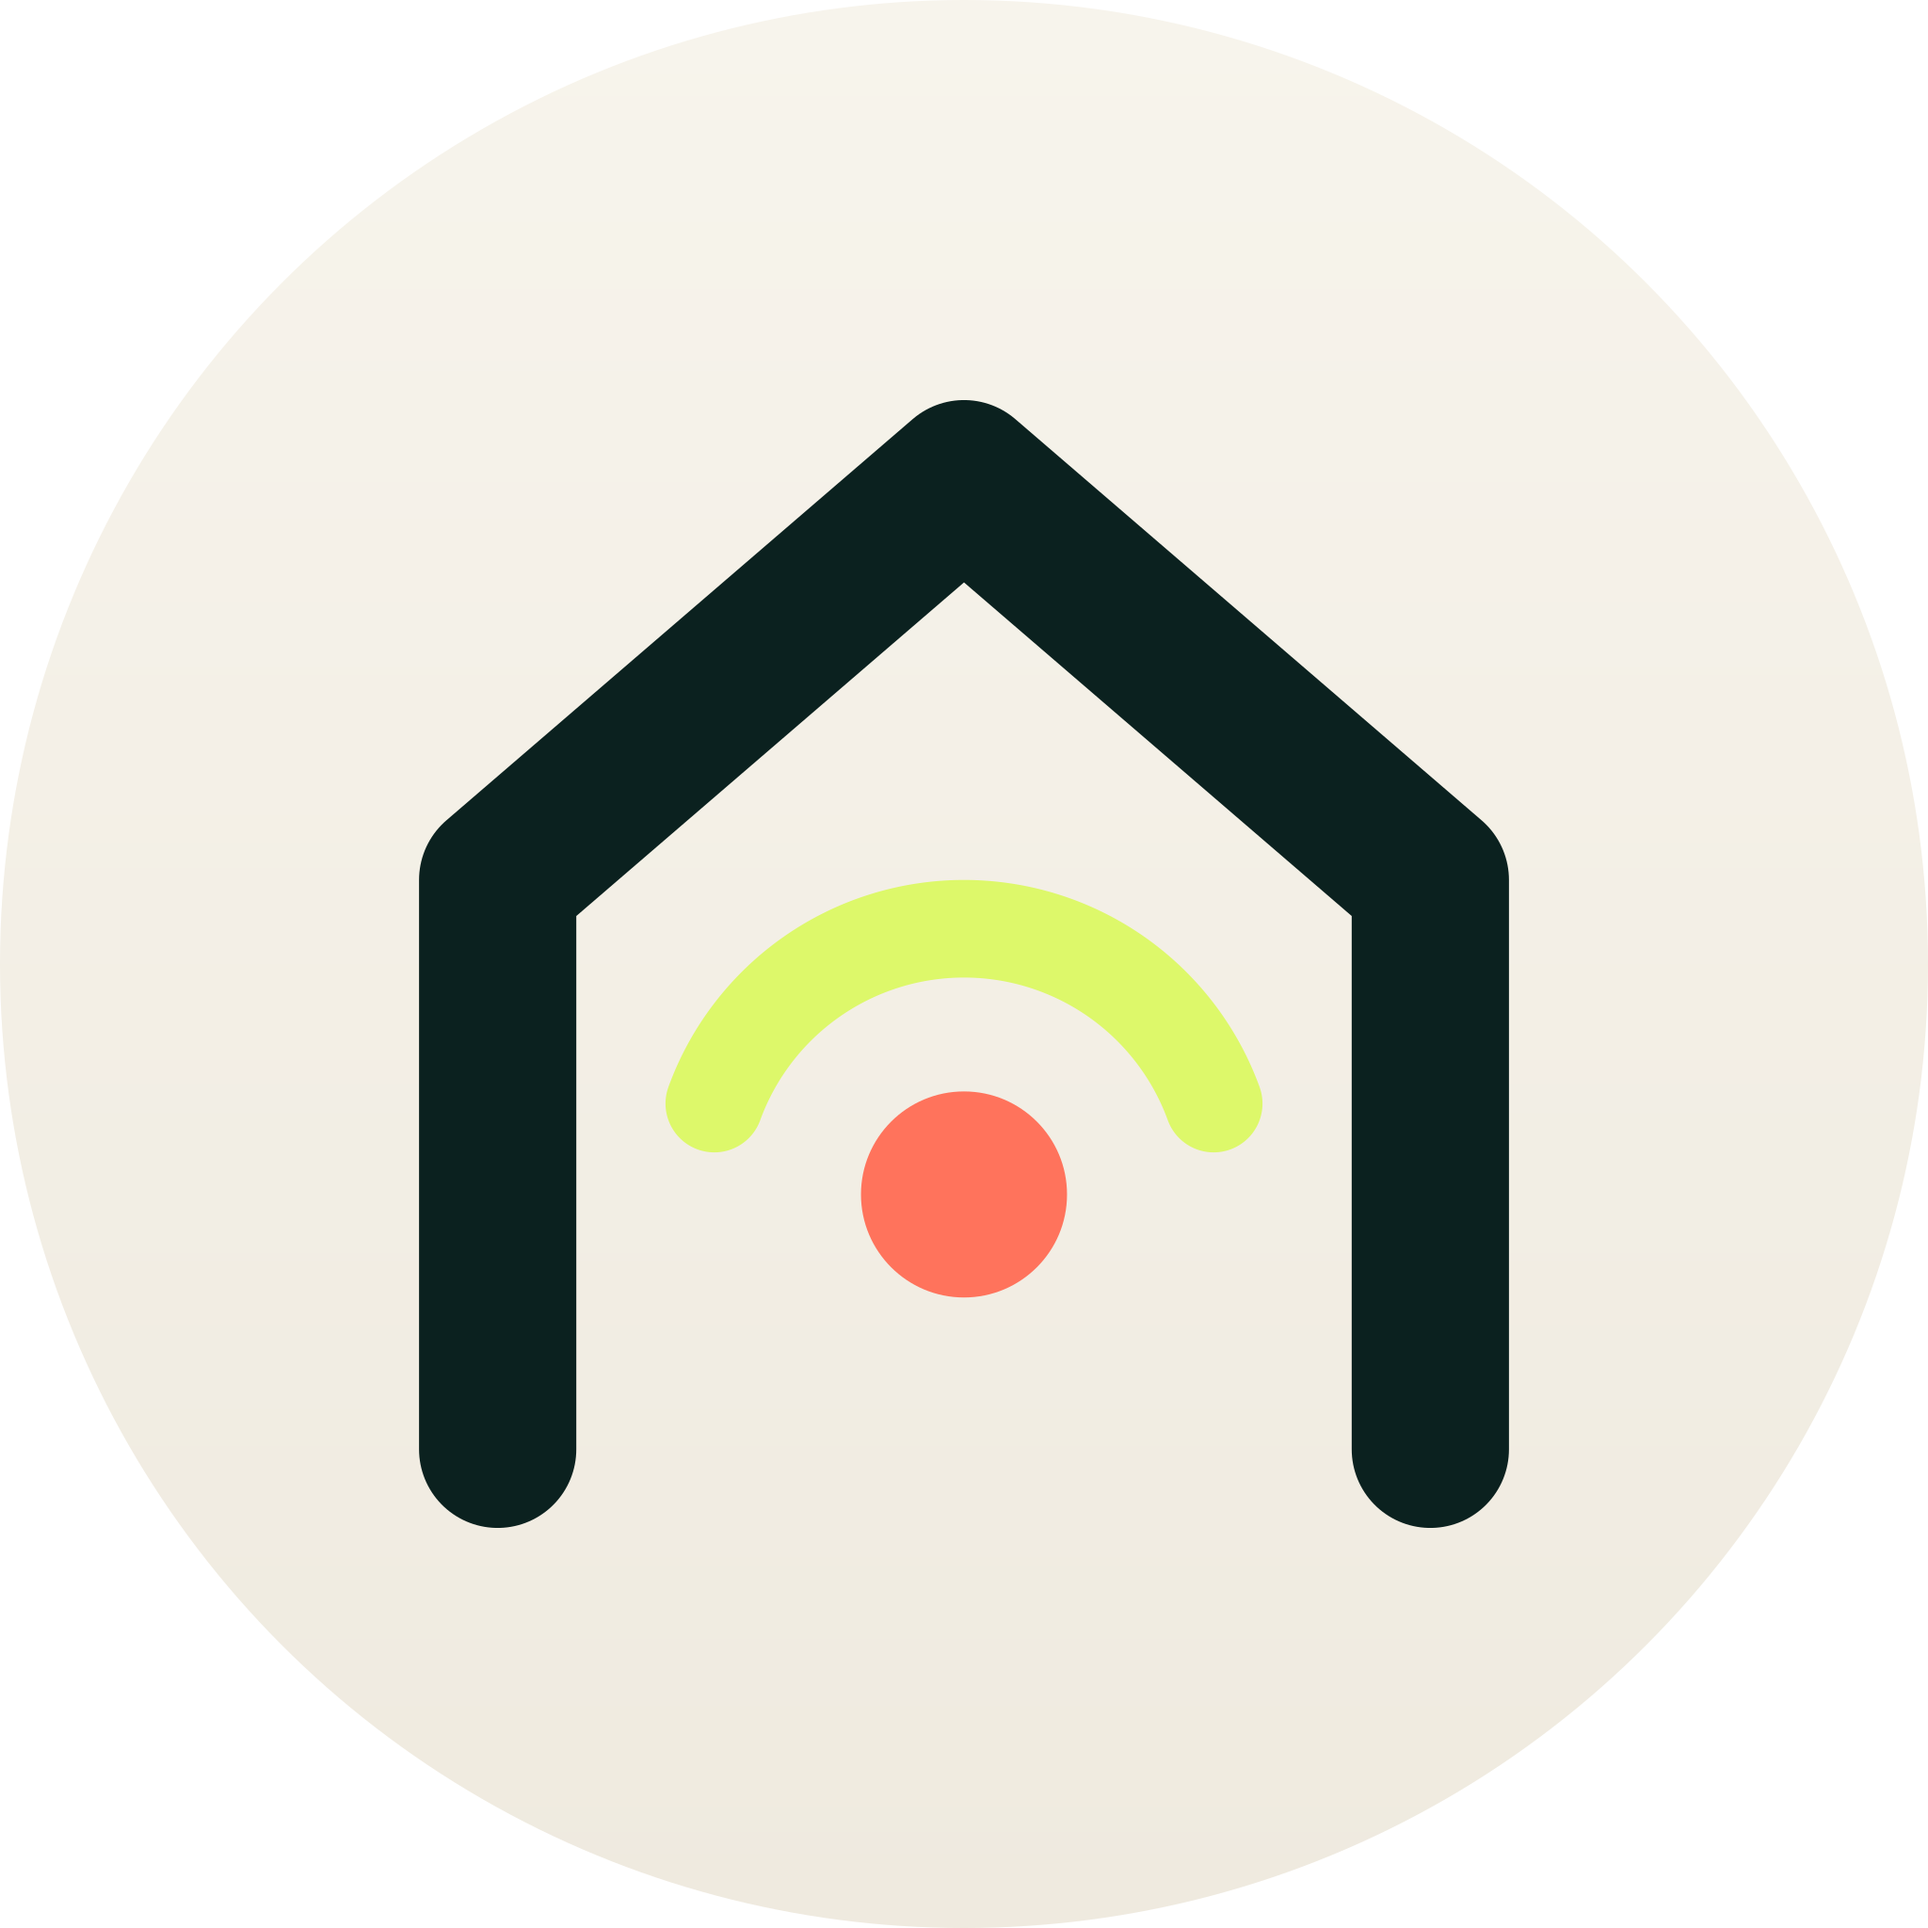
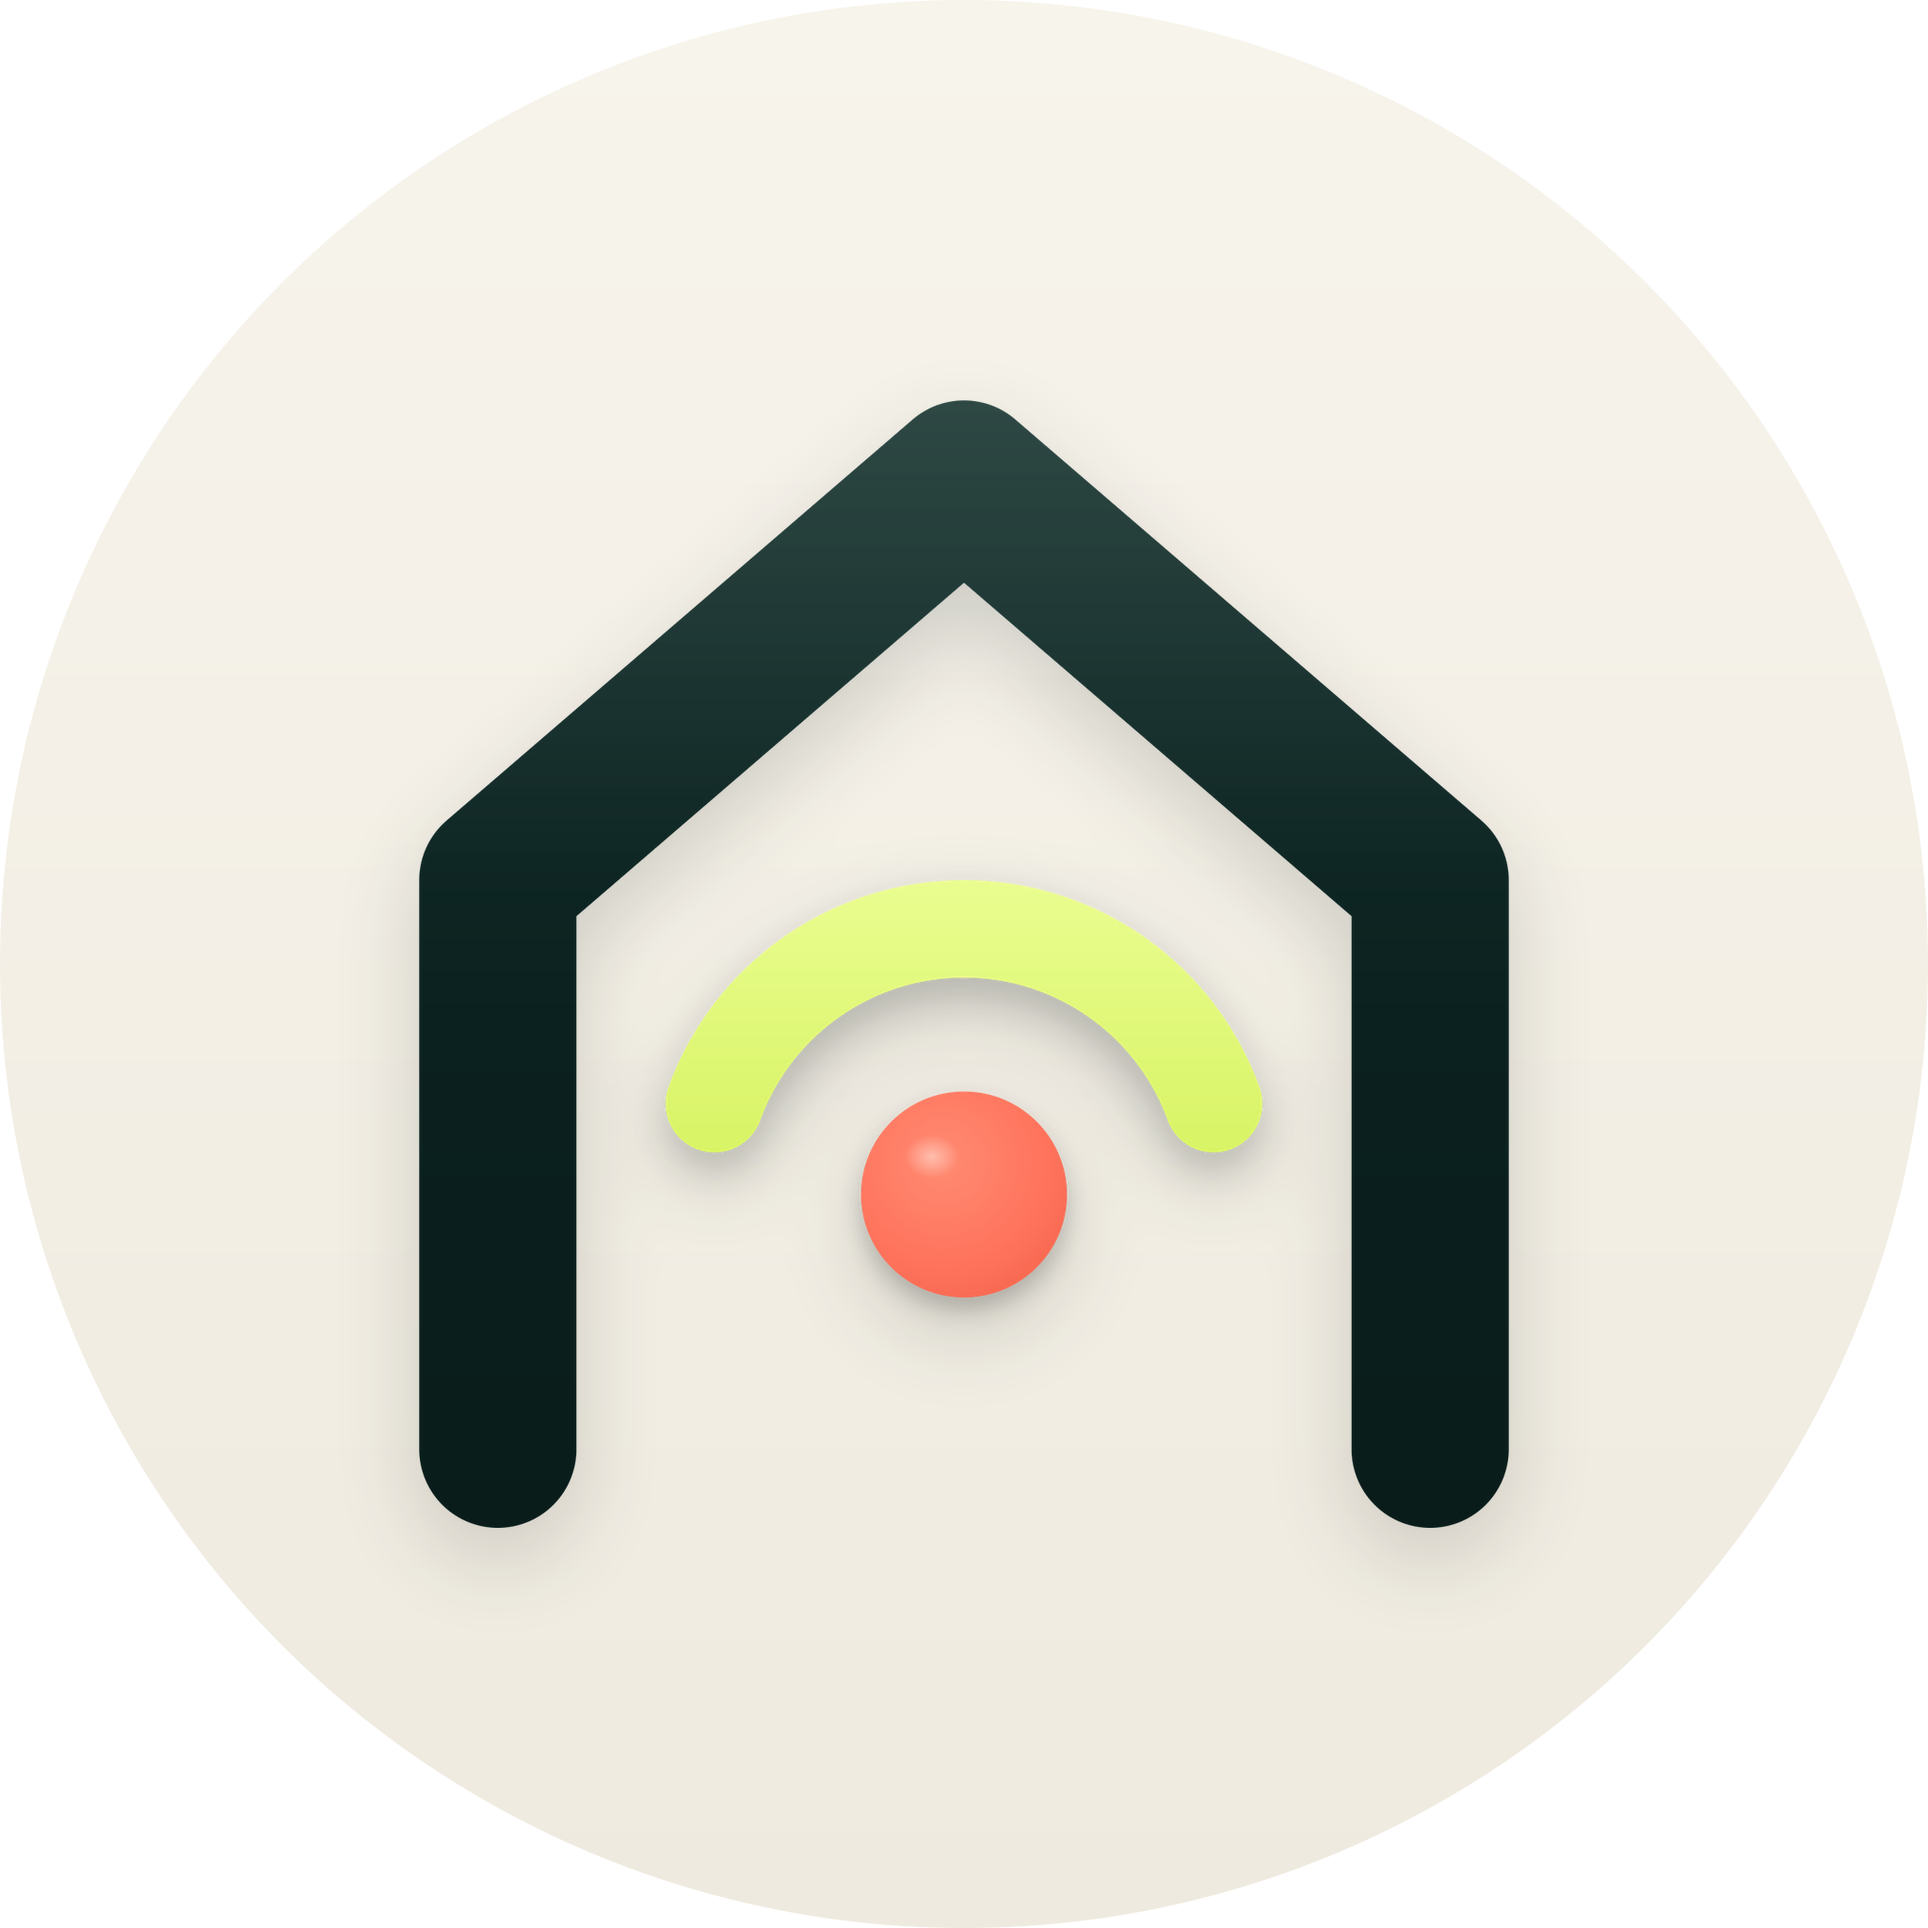
Elevate brand mark with premium material rendering

diff --git a/tools/brand/generate_mark.py b/tools/brand/generate_mark.py
@@ -1,14 +1,19 @@
 #!/usr/bin/env python3
 """Generate the AbitareSmart Signal mark and every web export from scratch.
 
-The mark is pure vector geometry built on the Signal palette:
+The geometry is pure vector, built on the Signal palette:
   - Ink #0B211F      architectural portal (open house silhouette)
   - Lime #DDF86A     precision signal channel (single arc, not generic Wi-Fi)
   - Coral #FF735C    source node (the intelligent hub)
   - Canvas #F7F4EC / Surface #EFEADF  circular presentation field
 
+The PNG exports add restrained material lighting: a satin vertical gradient
+on the ink portal, a top-light sheen, an enamel node with a specular
+highlight, and soft contact shadows. Everything is composited at 2048 px
+and supersampled down, so edges stay clean at every size.
+
 Outputs (all paths relative to repo root):
-  assets/img/brand/abitaresmart-mark.svg      512 master, transparent
+  assets/img/brand/abitaresmart-mark.svg      512 master geometry, transparent
   assets/img/abitaresmart-mark.png            1400x1400 transparent (structured data)
   assets/img/abitaresmart-mark-web.png        512x512 transparent (navigation)
   assets/img/abitaresmart-mark-disc.svg       circular presentation (SVG favicon)
@@ -20,6 +25,7 @@ import math
 from pathlib import Path
 
 import cairosvg
+from PIL import Image, ImageFilter
 
 ROOT = Path(__file__).resolve().parents[2]
 IMG = ROOT / "assets" / "img"
@@ -29,6 +35,8 @@ LIME = "#DDF86A"
 CORAL = "#FF735C"
 CANVAS = "#F7F4EC"
 SURFACE = "#EFEADF"
+
+SS = 2048  # supersampling canvas
 
 # --- geometry (512 viewBox) -------------------------------------------------
 # Open-portal pentagon: two walls and a gabled roof drawn as one continuous
@@ -44,6 +52,8 @@ ARC_R = 98
 ARC_W = 36
 ARC_DEG = 20  # arc runs from 180-ARC_DEG to ARC_DEG degrees, over the top
 
+HOUSE_D = f"M {WALL_L} {BASE_Y} V {EAVE_Y} L 256 {APEX_Y} L {WALL_R} {EAVE_Y} V {BASE_Y}"
+
 
 def arc_path() -> str:
     a = math.radians(ARC_DEG)
@@ -53,20 +63,24 @@ def arc_path() -> str:
     return f"M {x1:.2f} {y:.2f} A {ARC_R} {ARC_R} 0 0 1 {x2:.2f} {y:.2f}"
 
 
-def mark_group() -> str:
-    return f"""  <path d="M {WALL_L} {BASE_Y} V {EAVE_Y} L 256 {APEX_Y} L {WALL_R} {EAVE_Y} V {BASE_Y}"
-        fill="none" stroke="{INK}" stroke-width="{STROKE}"
+# --- flat vector masters ----------------------------------------------------
+
+def flat_group(house=INK, lime=LIME, coral=CORAL) -> str:
+    return f"""  <path d="{HOUSE_D}"
+        fill="none" stroke="{house}" stroke-width="{STROKE}"
         stroke-linecap="round" stroke-linejoin="round"/>
-  <path d="{arc_path()}" fill="none" stroke="{LIME}"
+  <path d="{arc_path()}" fill="none" stroke="{lime}"
         stroke-width="{ARC_W}" stroke-linecap="round"/>
-  <circle cx="{NODE[0]}" cy="{NODE[1]}" r="{NODE_R}" fill="{CORAL}"/>"""
+  <circle cx="{NODE[0]}" cy="{NODE[1]}" r="{NODE_R}" fill="{coral}"/>"""
+
+
+def wrap(body: str) -> str:
+    return (f'<svg xmlns="http://www.w3.org/2000/svg" viewBox="0 0 512 512">\n'
+            f'{body}\n</svg>\n')
 
 
 def mark_svg() -> str:
-    return f"""<svg xmlns="http://www.w3.org/2000/svg" viewBox="0 0 512 512">
-{mark_group()}
-</svg>
-"""
+    return wrap(flat_group())
 
 
 def disc_svg() -> str:
@@ -74,8 +88,7 @@ def disc_svg() -> str:
     scale = 0.72
     tx = 256 - scale * 256
     ty = 256 - scale * 263
-    return f"""<svg xmlns="http://www.w3.org/2000/svg" viewBox="0 0 512 512">
-  <defs>
+    return wrap(f"""  <defs>
     <linearGradient id="field" x1="0" y1="0" x2="0" y2="1">
       <stop offset="0" stop-color="{CANVAS}"/>
       <stop offset="1" stop-color="{SURFACE}"/>
@@ -83,31 +96,139 @@ def disc_svg() -> str:
   </defs>
   <circle cx="256" cy="256" r="256" fill="url(#field)"/>
   <g transform="translate({tx:.2f} {ty:.2f}) scale({scale})">
-{mark_group()}
-  </g>
-</svg>
-"""
+{flat_group()}
+  </g>""")
 
 
-def render(svg: str, out: Path, size: int) -> None:
-    cairosvg.svg2png(bytestring=svg.encode(), write_to=str(out),
-                     output_width=size, output_height=size)
+# --- material PNG pipeline ---------------------------------------------------
+
+def render(body: str, size: int = SS) -> Image.Image:
+    png = cairosvg.svg2png(bytestring=wrap(body).encode(),
+                           output_width=size, output_height=size)
+    import io
+    return Image.open(io.BytesIO(png)).convert("RGBA")
+
+
+def cast_shadow(layer: Image.Image, blur: float, dy: int,
+                opacity: float, color=(6, 16, 15)) -> Image.Image:
+    """Soft shadow built from a layer's silhouette."""
+    alpha = layer.split()[3]
+    moved = Image.new("L", layer.size, 0)
+    moved.paste(alpha, (0, dy))
+    moved = moved.filter(ImageFilter.GaussianBlur(blur))
+    moved = moved.point(lambda p: int(p * opacity))
+    shadow = Image.new("RGBA", layer.size, color + (255,))
+    shadow.putalpha(moved)
+    return shadow
+
+
+def house_layers() -> str:
+    """Satin ink portal: vertical tonal gradient plus a top-light sheen."""
+    return f"""  <defs>
+    <linearGradient id="satin" gradientUnits="userSpaceOnUse"
+        x1="0" y1="{APEX_Y - 30}" x2="0" y2="{BASE_Y + 30}">
+      <stop offset="0" stop-color="#173430"/>
+      <stop offset="0.55" stop-color="#0B211F"/>
+      <stop offset="1" stop-color="#091C1A"/>
+    </linearGradient>
+    <linearGradient id="sheen" gradientUnits="userSpaceOnUse"
+        x1="0" y1="{APEX_Y - 30}" x2="0" y2="{EAVE_Y}">
+      <stop offset="0" stop-color="#FFFDF8" stop-opacity="0.10"/>
+      <stop offset="1" stop-color="#FFFDF8" stop-opacity="0"/>
+    </linearGradient>
+  </defs>
+  <path d="{HOUSE_D}" fill="none" stroke="url(#satin)" stroke-width="{STROKE}"
+        stroke-linecap="round" stroke-linejoin="round"/>
+  <path d="{HOUSE_D}" fill="none" stroke="url(#sheen)" stroke-width="{STROKE}"
+        stroke-linecap="round" stroke-linejoin="round"/>"""
+
+
+def arc_layer() -> str:
+    top = NODE[1] - ARC_R - ARC_W / 2
+    return f"""  <defs>
+    <linearGradient id="limeg" gradientUnits="userSpaceOnUse"
+        x1="0" y1="{top}" x2="0" y2="{NODE[1]}">
+      <stop offset="0" stop-color="#E9FD90"/>
+      <stop offset="1" stop-color="#D6F25E"/>
+    </linearGradient>
+  </defs>
+  <path d="{arc_path()}" fill="none" stroke="url(#limeg)"
+        stroke-width="{ARC_W}" stroke-linecap="round"/>"""
+
+
+def node_layer() -> str:
+    """Enamel hub: warm radial body with a small specular highlight."""
+    return f"""  <defs>
+    <radialGradient id="enamel" cx="0.40" cy="0.34" r="0.92">
+      <stop offset="0" stop-color="#FF8B72"/>
+      <stop offset="0.55" stop-color="#FF735C"/>
+      <stop offset="1" stop-color="#EF5D45"/>
+    </radialGradient>
+    <radialGradient id="spec" cx="0.5" cy="0.5" r="0.5">
+      <stop offset="0" stop-color="#FFFDF8" stop-opacity="0.45"/>
+      <stop offset="1" stop-color="#FFFDF8" stop-opacity="0"/>
+    </radialGradient>
+  </defs>
+  <circle cx="{NODE[0]}" cy="{NODE[1]}" r="{NODE_R}" fill="url(#enamel)"/>
+  <ellipse cx="{NODE[0] - 12}" cy="{NODE[1] - 14}" rx="10" ry="8" fill="url(#spec)"/>"""
+
+
+def material_mark() -> Image.Image:
+    house = render(house_layers())
+    arc = render(arc_layer())
+    node = render(node_layer())
+
+    out = Image.new("RGBA", (SS, SS), (0, 0, 0, 0))
+    out.alpha_composite(house)
+    out.alpha_composite(cast_shadow(arc, blur=26, dy=28, opacity=0.15))
+    out.alpha_composite(cast_shadow(node, blur=16, dy=18, opacity=0.20))
+    out.alpha_composite(arc)
+    out.alpha_composite(node)
+    return out
+
+
+def material_disc(mark: Image.Image) -> Image.Image:
+    disc = render(f"""  <defs>
+    <linearGradient id="field" x1="0" y1="0" x2="0" y2="1">
+      <stop offset="0" stop-color="{CANVAS}"/>
+      <stop offset="1" stop-color="{SURFACE}"/>
+    </linearGradient>
+  </defs>
+  <circle cx="256" cy="256" r="256" fill="url(#field)"/>""")
+
+    scale = 0.72
+    small = mark.resize((int(SS * scale),) * 2, Image.LANCZOS)
+    # Optical centre of the mark sits at (256, 263) in the 512 grid.
+    ox = round(SS / 2 - scale * SS * (256 / 512))
+    oy = round(SS / 2 - scale * SS * (263 / 512))
+    placed = Image.new("RGBA", (SS, SS), (0, 0, 0, 0))
+    placed.alpha_composite(small, (ox, oy))
+
+    disc.alpha_composite(cast_shadow(placed, blur=44, dy=34, opacity=0.16))
+    disc.alpha_composite(placed)
+    # keep the presentation strictly circular after the shadow pass
+    mask = render('  <circle cx="256" cy="256" r="256" fill="#fff"/>').split()[3]
+    disc.putalpha(mask)
+    return disc
+
+
+def save(img: Image.Image, out: Path, size: int) -> None:
+    img.resize((size, size), Image.LANCZOS).save(out)
     print(f"  {out.relative_to(ROOT)}  {size}x{size}")
 
 
 def main() -> None:
-    mark = mark_svg()
-    disc = disc_svg()
-
-    (IMG / "brand" / "abitaresmart-mark.svg").write_text(mark)
-    (IMG / "abitaresmart-mark-disc.svg").write_text(disc)
+    (IMG / "brand" / "abitaresmart-mark.svg").write_text(mark_svg())
+    (IMG / "abitaresmart-mark-disc.svg").write_text(disc_svg())
     print("  assets/img/brand/abitaresmart-mark.svg")
     print("  assets/img/abitaresmart-mark-disc.svg")
 
-    render(mark, IMG / "abitaresmart-mark.png", 1400)
-    render(mark, IMG / "abitaresmart-mark-web.png", 512)
-    render(disc, IMG / "abitaresmart-mark-disc.png", 512)
-    render(disc, IMG / "abitaresmart-mark-avatar.png", 2048)
+    mark = material_mark()
+    disc = material_disc(mark)
+    save(mark, IMG / "abitaresmart-mark.png", 1400)
+    save(mark, IMG / "abitaresmart-mark-web.png", 512)
+    save(disc, IMG / "abitaresmart-mark-disc.png", 512)
+    save(disc, IMG / "abitaresmart-mark-avatar.png", 2048)
 
 
 if __name__ == "__main__":

diff --git a/design.md b/design.md
@@ -97,7 +97,7 @@ The AbitareSmart **Signal mark** is a freestanding flat vector smart-home icon, 
 - the electric-lime **precision signal channel** — a single wide arc hugging the hub — communicates a live connected system without the generic three-wave Wi-Fi symbol;
 - the coral **source node** represents the intelligent hub at the centre of the home.
 
-The open base keeps the doorway/portal story: the page surface itself becomes the inhabited interior. The mark is pure geometry — flat color, no gradients, bevels, or lighting — so it stays crisp from a 16 px favicon to full-bleed print. There is no square container in the primary mark.
+The open base keeps the doorway/portal story: the page surface itself becomes the inhabited interior. The geometry is pure vector, so it stays crisp from a 16 px favicon to full-bleed print. The PNG exports add restrained material lighting — a satin vertical tone on the ink portal, a quiet top-light sheen, an enamel node with a small specular, and soft contact shadows — composited at 2048 px and supersampled down. The materials stay quiet; the geometry carries the mark. There is no square container in the primary mark.
 
 ### Source assets
 
@@ -127,7 +127,7 @@ The transparent high-resolution mark is used in structured organization metadata
 
 ### Construction and color
 
-The logo is anchored to three palette colors: Ink `#0B211F` for the architectural portal, Primary `#DDF86A` for the signal channel, and Accent `#FF735C` for the source node. The portal is a single open pentagon stroke (walls and gable) with round caps and joins; the signal is one arc concentric with the node. No other colors, strokes, or effects may be added to the mark.
+The logo is anchored to three palette colors: Ink `#0B211F` for the architectural portal, Primary `#DDF86A` for the signal channel, and Accent `#FF735C` for the source node. The portal is a single open pentagon stroke (walls and gable) with round caps and joins; the signal is one arc concentric with the node. The material lighting in the exports uses only shaded derivatives of these three colors and may not introduce a new decorative hue; no further colors, strokes, or effects may be added to the mark.
 
 The primary mark has a transparent background. The circular presentation adds a Canvas-to-Surface tonal field so the mark survives dark browser chrome, platform downsampling, and Ink surfaces. This field must never be baked into the transparent website mark.
 
